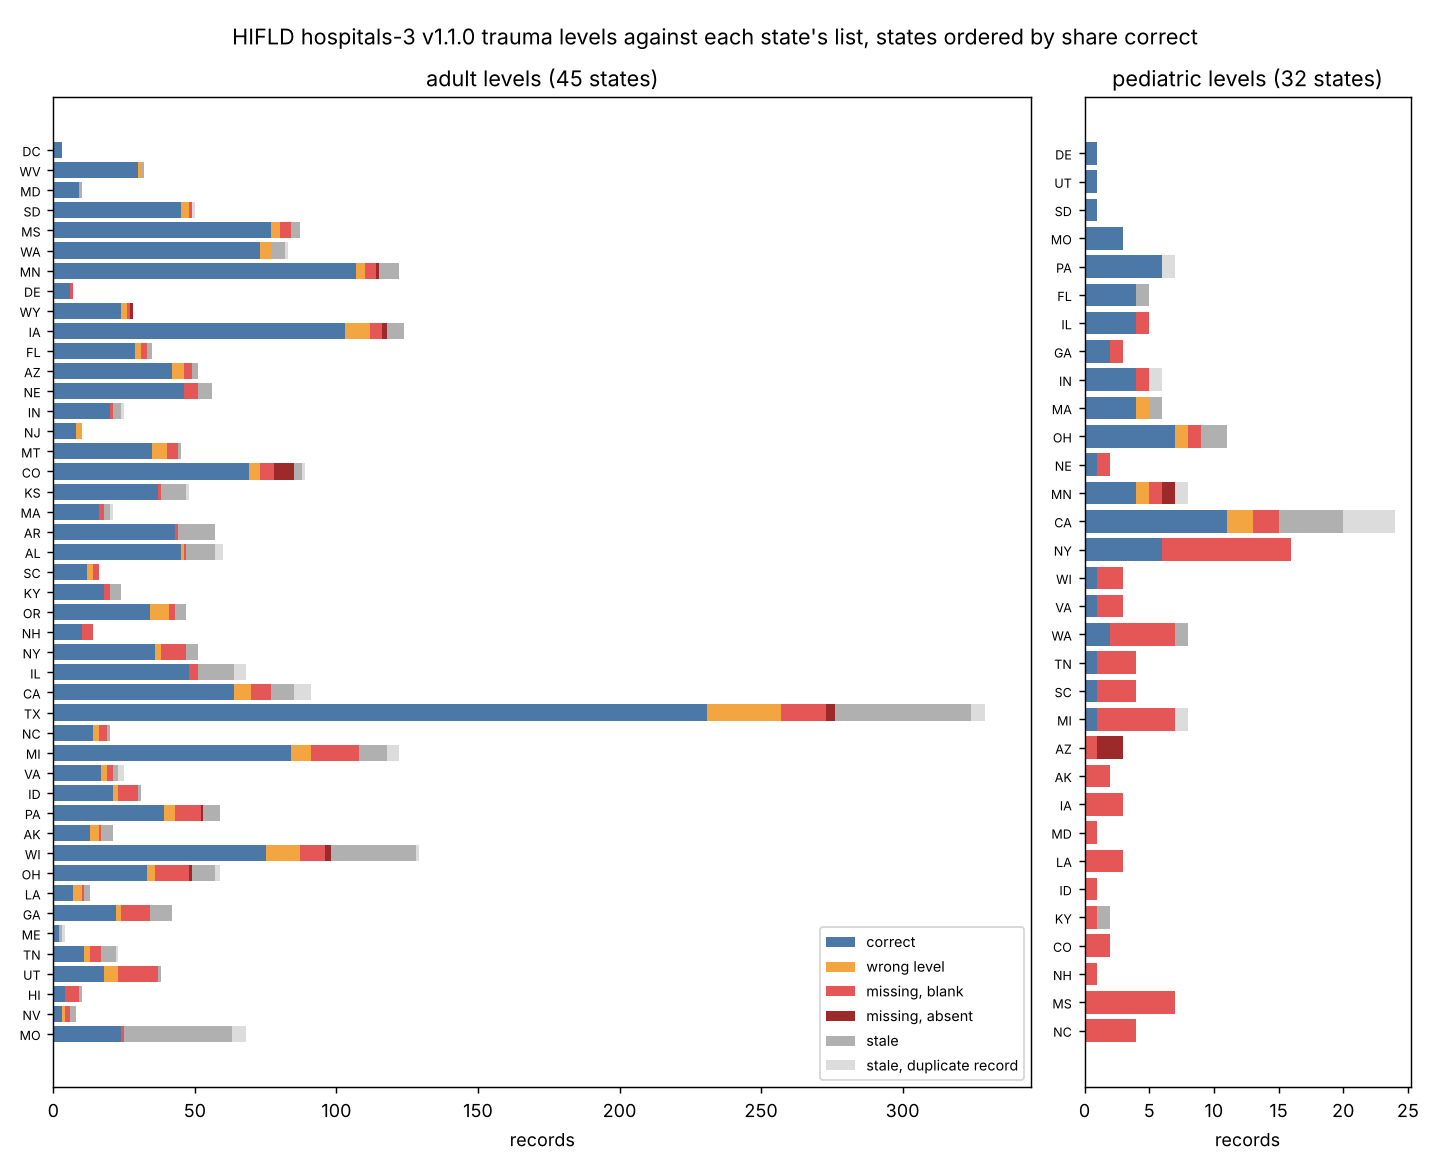
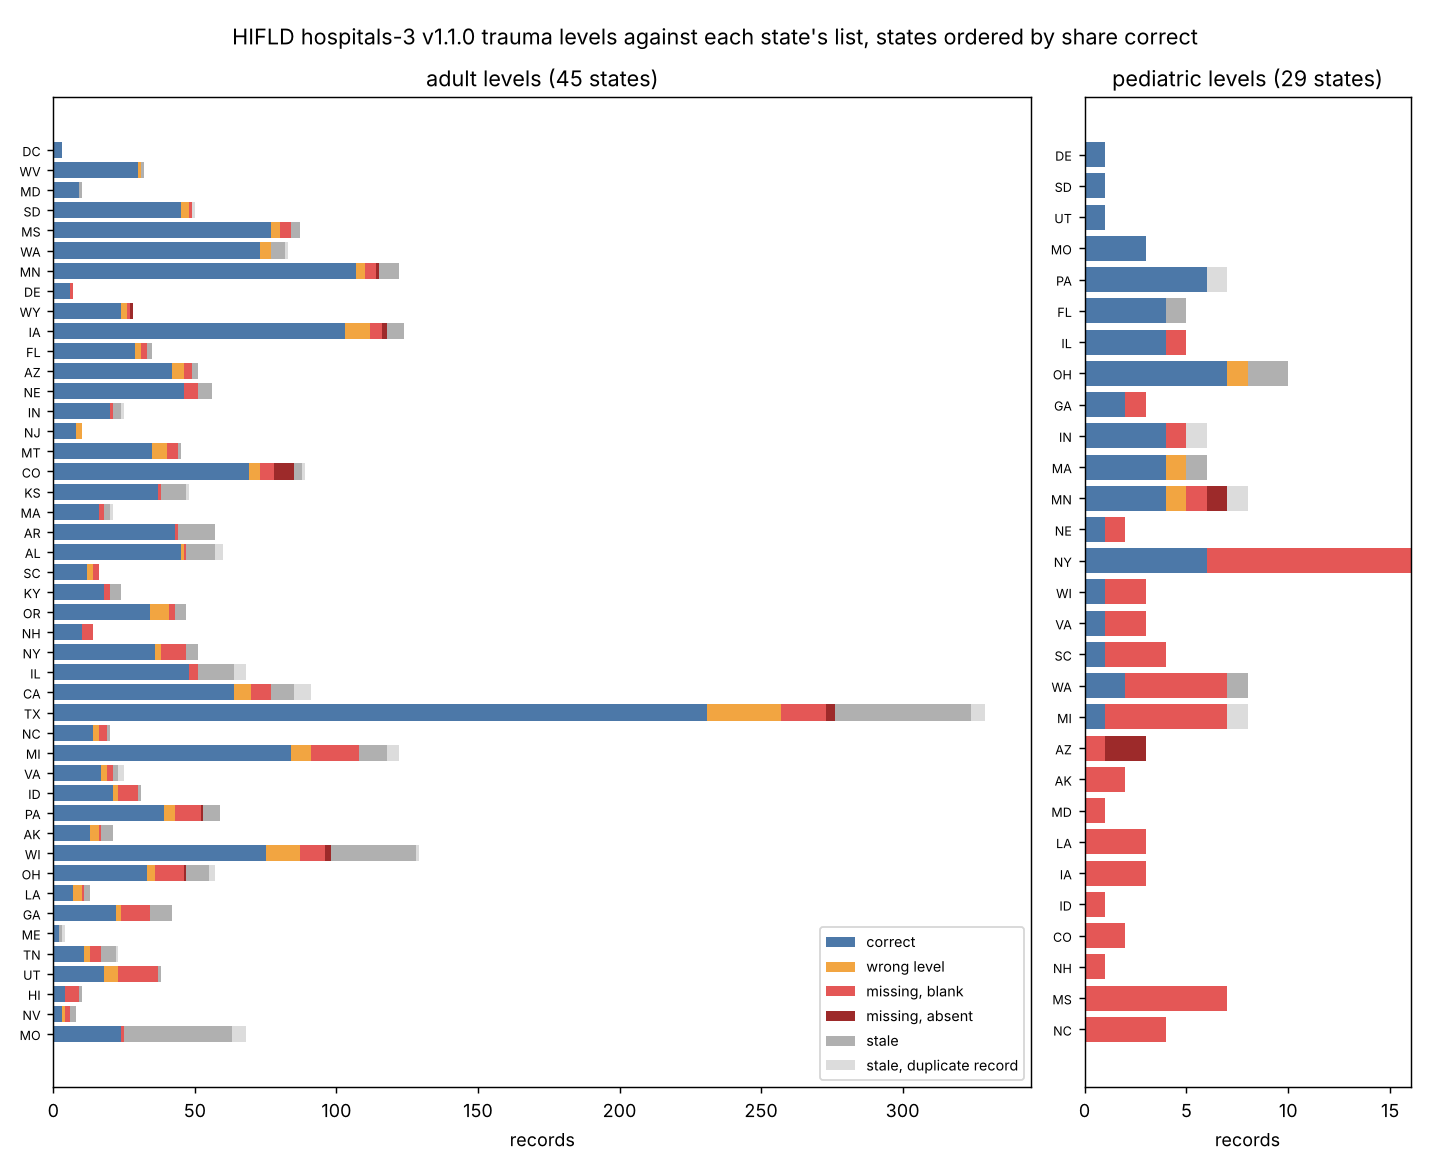
Spike: pediatric check fixes (CRPC, seeking status, incomplete CA/KY pediatric lists), final numbers
Claude-Session: https://claude.ai/code/session_01L5nw7CVMYunDZQP2ESgwpq

diff --git a/hifld-trauma-levels-audit/audit.py b/hifld-trauma-levels-audit/audit.py
@@ -51,7 +51,6 @@ with app.setup:
     # State tiers that aren't numbered, mapped to the nearest ACS level (see state_sources.csv notes).
     TIERS = {
         "RTC": "II", "RTH": "II", "ATH": "III", "CTH": "IV", "TRF": "V", "TRH": "V",  # Montana, Wyoming, South Dakota
-        "CRPC": "I",  # Tennessee's Comprehensive Regional Pediatric Center
         "PARC": "I",  # Maryland's Primary Adult Resource Center (Shock Trauma)
         # Mississippi's pediatric tiers: a Secondary center may be a Level III adult center and keeps children only
         # for orthopedic injuries (15 Miss. Code R. 3-1-7.2.1), so it maps to III, not II.
@@ -60,7 +59,12 @@ with app.setup:
     }  # fmt: skip
     # Tiers that mean a hospital takes part in the state system, not that it is a trauma center: Maine's Trauma
     # System Hospitals, and Mississippi's Primary Pediatric tier, which every designated hospital holds.
-    NOT_TRAUMA = {"TSH", "PRIMARY"}
+    # Tennessee's Comprehensive Regional Pediatric Center is a pediatric emergency-care tier, not a trauma level.
+    NOT_TRAUMA = {"TSH", "PRIMARY", "CRPC"}
+    # States whose list leaves out pediatric centers that other official documents designate (the pediatric check
+    # found Los Angeles and Riverside county pediatric centers missing from California's list, and UK Kentucky
+    # Children's Level I missing from Kentucky's map), so their pediatric levels count as unchecked.
+    PEDS_LIST_INCOMPLETE = {"CA", "KY"}
     RUN_STARTED = time.perf_counter()
 
     def rank(level: str) -> int:
@@ -176,7 +180,10 @@ def _():
 def _():
     sources = pd.read_csv(HERE / "state_sources.csv", dtype=str).fillna("")
     _extracted = pd.read_csv(HERE / "state_designations.csv", dtype=str).fillna("")
-    designations = _extracted[~_extracted["level"].isin(NOT_TRAUMA)].reset_index(drop=True)
+    # "Seeking provisional status" (Ohio) is an application, not a designation.
+    designations = _extracted[~_extracted["level"].isin(NOT_TRAUMA) & (_extracted["status"] != "seeking")].reset_index(
+        drop=True
+    )
     assert set(sources["state"]) == set(STATES), (
         f"state_sources.csv must cover 51 states: {set(STATES) ^ set(sources['state'])}"
     )
@@ -191,7 +198,13 @@ def _():
     state_status["checked_adult"] = (
         state_status["reusable"].isin(["yes", "unclear"]) & (state_status["rows"] > 0) & state_status["current"]
     )
-    state_status["checked_peds"] = state_status["checked_adult"] & (state_status["covers_peds"] == "yes")
+    _peds_rows = designations[designations["kind"] == "peds"].groupby("state").size()
+    state_status["checked_peds"] = (
+        state_status["checked_adult"]
+        & (state_status["covers_peds"] == "yes")
+        & (_peds_rows.reindex(state_status.index, fill_value=0) > 0)
+        & ~state_status.index.isin(PEDS_LIST_INCOMPLETE)
+    )
     _dated = sources.loc[sources["state"].isin(state_status.index[state_status["checked_adult"]]), "list_date"]
     _dated = _dated[_dated != ""]
     source_counts = {
@@ -489,11 +502,29 @@ def _():
 
 
 @app.cell
-def _(hifld, pairs, sources, state_status):
+def _(designations, hifld, pairs, sources, state_status):
     _wide = pairs.pivot_table(index="key", columns="kind", values="state_level", aggfunc="first")
     _wide = _wide.reindex(columns=list(KINDS)).fillna("")
     _names = pairs.drop_duplicates("key").set_index("key")[["state", "list_name"]]
-    _keys = set(hifld.loc[(hifld["adult_hifld"] != "") | (hifld["peds_hifld"] != ""), "source_ID"]) | set(_wide.index)
+    # In a state with a current list but no pediatric list, a children's hospital it designates at Level I/II is
+    # still added (nothing is removed there).
+    _state_of = hifld.set_index("source_ID")["STATE"]
+    _adds = designations[
+        (designations["kind"] == "peds")
+        & designations["level"].replace(TIERS).isin(["I", "II", "unspecified"])
+        & designations["state"].map(state_status["checked_adult"])
+        & ~designations["state"].map(state_status["checked_peds"])
+    ]
+    _adds = _adds[(_adds["source_ID"] == "") | (_adds["source_ID"].map(_state_of) == _adds["state"])]
+    _adds = _adds.assign(
+        key=np.where(_adds["source_ID"] != "", _adds["source_ID"], "list:" + _adds["state"] + ":" + _adds["list_name"]),
+        level=_adds["level"].replace(TIERS),
+    )
+    _adds = _adds.assign(_rank=_adds["level"].map(rank)).sort_values("_rank").drop_duplicates("key").set_index("key")
+    _names = pd.concat([_names, _adds[["state", "list_name"]]])
+    _names = _names[~_names.index.duplicated()]
+    _keys = set(hifld.loc[(hifld["adult_hifld"] != "") | (hifld["peds_hifld"] != ""), "source_ID"])
+    _keys |= set(_wide.index) | set(_adds.index)
     corrected = pd.DataFrame(index=sorted(_keys))
     corrected = corrected.join(
         hifld.set_index("source_ID")[["NAME", "CITY", "STATE", "TYPE", "STATUS", "TRAUMA", "adult_hifld", "peds_hifld"]]
@@ -505,6 +536,9 @@ def _(hifld, pairs, sources, state_status):
         _checked = corrected["STATE"].map(state_status[f"checked_{_kind}"]).fillna(False).astype(bool)
         _state_value = _wide[_kind].reindex(corrected.index).fillna("")
         corrected[f"{_kind}_corrected"] = np.where(_checked, _state_value, corrected[f"{_kind}_hifld"])
+    _added = _adds["level"].reindex(corrected.index).fillna("")
+    _fill = (corrected["peds_corrected"] == "") & (_added != "")
+    corrected.loc[_fill, "peds_corrected"] = _added[_fill]
 
     def trauma_text(adult: str, peds: str) -> str:
         parts = [
@@ -551,7 +585,7 @@ def _(corrected, designations, hifld, state_status):
         "of which on the state list at Level I/II": int(
             _peds_before["source_ID"].isin(set(_peds_checked["source_ID"])).sum()
         ),
-        "pediatric Level I/II after correction, nationally": int(
+        "pediatric Level I/II in the corrected field, nationally": int(
             corrected["peds_corrected"].isin(["I", "II", "unspecified"]).sum()
         ),
     }
@@ -644,7 +678,7 @@ def _(files):
 
 
 @app.cell
-def _(bg, corrected, designations, hifld, state_status):
+def _(bg, corrected, hifld, state_status):
     def unit_vectors(lat: np.ndarray, lon: np.ndarray) -> np.ndarray:
         lat_r, lon_r = np.radians(lat), np.radians(lon)
         return np.column_stack([np.cos(lat_r) * np.cos(lon_r), np.cos(lat_r) * np.sin(lon_r), np.sin(lat_r)])
@@ -662,21 +696,15 @@ def _(bg, corrected, designations, hifld, state_status):
     _added = pd.read_csv(HERE / "added_locations.csv", dtype={"key": str})
     _added = _added.set_index("key")[["LATITUDE", "LONGITUDE", "state"]].rename(columns={"state": "STATE"})
     _coords = pd.concat([_coords, _added])
-    _peds_list = designations[(designations["kind"] == "peds") & designations["level"].replace(TIERS).isin(["I", "II"])]
-    _peds_extra = {
-        k if k else f"list:{s}:{n}"
-        for k, s, n in zip(_peds_list["source_ID"], _peds_list["state"], _peds_list["list_name"], strict=True)
-    }
-
     center_sets = {}
     for _kind in KINDS:
         _before = hifld.loc[hifld[f"{_kind}_spike"], "source_ID"]
+        _top_after = corrected[f"{_kind}_corrected"].isin(_top)
+        # Where HIFLD's value stands unchecked, keep the spike's filter on type and status.
+        _unchanged = corrected[f"{_kind}_corrected"] == corrected[f"{_kind}_hifld"]
         _checked = corrected["STATE"].map(state_status[f"checked_{_kind}"]).fillna(False).astype(bool)
-        _from_list = corrected.index[_checked & corrected[f"{_kind}_corrected"].isin(_top)]
-        _unchecked = set(_before) & set(corrected.index[~_checked])
-        _after = set(_from_list) | _unchecked
-        if _kind == "peds":
-            _after |= {k for k in _peds_extra if k in corrected.index and not _checked.get(k, False)}
+        _dropped = ~_checked & _unchanged & ~corrected.index.isin(set(_before))
+        _after = set(corrected.index[_top_after & ~_dropped])
         _missing = sorted(_after - set(_coords.index))
         assert not _missing, f"no coordinates for {_missing}; add them to added_locations.csv"
         center_sets[_kind] = {"before": sorted(_before), "after": sorted(_after)}
@@ -785,10 +813,11 @@ def _():
       level on a licensing form and the state doesn't publish the results. New Mexico's only official list is an
       archived 2013 map and North Dakota's a 2020 map that shows levels by marker colour; both are too old. These
       six keep HIFLD's values.
-    - **Thirteen states don't designate pediatric centers separately** (New Jersey among them), so their
-      pediatric records stay unchecked. There, the corrected list keeps HIFLD's pediatric records and adds
-      children's hospitals the state designates at Level I or II. New Jersey's 1-of-5 gap from the trauma-access
-      spike can't be confirmed from a state list for this reason.
+    - **Sixteen checked states have no usable pediatric list.** Fourteen don't designate pediatric centers
+      separately (New Jersey and Tennessee among them). In California and Kentucky the pediatric check found
+      designated centers missing from the state's list. Their pediatric records stay unchecked: the corrected
+      list keeps HIFLD's records and adds children's hospitals the state designates at Level I or II. A state list
+      can't confirm New Jersey's 1-of-5 gap from the trauma-access spike for this reason.
     - **Some sources aren't the state's own document.** Pennsylvania's list is the press release of the
       nonprofit the state law names as its accreditor; Colorado's, Kansas's, Missouri's and Wisconsin's come from
       the state's own map services because their pages blocked us or only show a map; Mississippi's PDF was taken

diff --git a/hifld-trauma-levels-audit/README.md b/hifld-trauma-levels-audit/README.md
@@ -2,7 +2,7 @@
 
 The HIFLD hospital layer (`hospitals-3` v1.1.0 on [HIFLD Next](https://hifld.publicenvirodata.org)) is the one national public file with a trauma level for every hospital. This spike checks its `TRAUMA` field against each state's own designation list, counts the errors by state, writes a corrected field, and reruns the trauma-access spike's distance shares on it. One marimo notebook, `audit.py`. Issue [#204](https://github.com/fulton-ring/agent-content-demos/issues/204); follows `trauma-burn-center-access/` (#148).
 
-**Short answer.** Adult levels are mostly right and pediatric levels mostly aren't. Of 2,355 adult records we could check in 45 states, 72% match the state list. Of 158 pediatric records in 32 states, 42% do. Most pediatric errors are centers HIFLD leaves out: state lists name 54 pediatric Level I/II centers that HIFLD doesn't have at that level, including Children's Hospital Colorado, Phoenix Children's, all four of North Carolina's Level I children's hospitals and three of Louisiana's. With the corrected list, the share of children more than an hour's drive from a Level I/II pediatric center falls from **45.2% to 32.3%**. The adult share barely moves overall (**12.8% to 12.4%**), but it halves in Alaska (95% to 47%), where HIFLD types the Alaska Native Medical Center as a critical-access hospital and has Providence Alaska at Level III instead of II.
+**Short answer.** Adult levels are mostly right and pediatric levels mostly aren't. Of 2,353 adult records we could check in 45 states, 72.5% match the state list. Of 127 pediatric records in 29 states, 42.5% do. Most pediatric errors are centers HIFLD leaves out: state lists name 47 pediatric Level I/II centers that HIFLD doesn't have at that level, including Children's Hospital Colorado, Phoenix Children's, all four of North Carolina's Level I children's hospitals and three of Louisiana's. With the corrected list, the share of children more than an hour's drive from a Level I/II pediatric center falls from **45.2% to 33.3%**. The adult share barely moves overall (**12.8% to 12.4%**), but it halves in Alaska (95% to 47%), where HIFLD types the Alaska Native Medical Center as a critical-access hospital and has Providence Alaska at Level III instead of II.
 
 ## How to run
 
@@ -21,7 +21,7 @@ It needs [uv](https://docs.astral.sh/uv/). The first run downloads about 240 MB 
 | People and children | ACS 2018–2022 table B01001 by block group; Census 2020 population-weighted block-group centres; USDA ERS 2020 RUCA codes. All downloaded at run time |
 | Drive-time conversion | The trauma-access spike's fitted straight-line-to-minutes lines (`trauma-burn-center-access/outputs/summary.json`) |
 
-**How the state lists were read.** Nine Claude agents, one per region, each found a state's official list, recorded its terms, copied every row (all levels, adult and pediatric) and matched each row by hand to a HIFLD `source_ID`. No paid model API was used. A separate pass re-read a seeded sample of 60 rows against the sources: 59 were copied right (the one miss is an Idaho row marked provisional where the list says "pending application") and all 60 HIFLD matches were right (`extraction_check.csv`). A further pass checked every pediatric Level I/II disagreement between HIFLD and the lists (`peds_check.csv`).
+**How the state lists were read.** Nine Claude agents, one per region, each found a state's official list, recorded its terms, copied every row (all levels, adult and pediatric) and matched each row by hand to a HIFLD `source_ID`. No paid model API was used. A separate pass re-read a seeded sample of 60 rows against the sources: 59 were copied right (the one miss is an Idaho row marked provisional where the list says "pending application") and all 60 HIFLD matches were right (`extraction_check.csv`). A further pass checked all 72 pediatric Level I/II disagreements between HIFLD and the lists against other official documents and hospital announcements (`peds_check.csv`). Our reading of the lists was right on 62. The 10 misses changed three rules in the notebook. Tennessee's "Comprehensive Regional Pediatric Center" tier is an emergency-care tier, not a trauma level. Ohio's "seeking provisional status" is not a designation. California's and Kentucky's lists leave out county-designated and other pediatric centers, so their pediatric levels count as unchecked.
 
 **What counts as a list.** It must be the state's own official list, dated 2022 or later or still posted as current, with terms that don't forbid reuse. The American College of Surgeons' verified-center search can't be used: it has no download and its terms forbid reuse in other applications.
 
@@ -29,34 +29,34 @@ It needs [uv](https://docs.astral.sh/uv/). The first run downloads about 240 MB 
 
 Every number here comes from `outputs/summary.json` and the CSVs beside it, written by the run.
 
-**Sources.** 47 of 51 states (50 plus DC) publish an official list: 38 are reusable and 9 have unclear terms, such as an all-rights-reserved footer or a non-commercial clause. Two of those lists are too old to use (New Mexico 2013, North Dakota 2020), leaving **45 states checked for adult levels and 32 for pediatric levels**. Connecticut, Rhode Island and Vermont rely on ACS verification and publish no list, and Oklahoma doesn't publish one. The lists used are dated 2022-12-16 to 2026-11-05; 6 state no date.
+**Sources.** 47 of 51 states (50 plus DC) publish an official list: 38 are reusable and 9 have unclear terms, such as an all-rights-reserved footer or a non-commercial clause. Two of those lists are too old to use (New Mexico 2013, North Dakota 2020), leaving **45 states checked for adult levels and 29 for pediatric levels**. Connecticut, Rhode Island and Vermont rely on ACS verification and publish no list, and Oklahoma doesn't publish one. The lists used are dated 2022-12-16 to 2026-11-05; 6 state no date.
 
 **Records by bucket** (each HIFLD record with a level, or state-list row, in a checked state):
 
 | | correct | wrong level | missing, blank in HIFLD | missing, no HIFLD record | stale | stale, duplicate record | designated but mistyped |
 |---|---|---|---|---|---|---|---|
-| Adult | 1,707 | 134 | 182 | 18 | 274 | 40 | 25 |
-| Pediatric | 66 | 5 | 65 | 3 | 11 | 8 | 3 |
+| Adult | 1,707 | 134 | 180 | 18 | 274 | 40 | 25 |
+| Pediatric | 54 | 3 | 58 | 3 | 5 | 4 | 2 |
 
-*Stale* means HIFLD gives a level the state list doesn't. Missouri alone has 43, because HIFLD gives a level to many St. Louis and Kansas City hospitals that aren't on the state's list of 28. *Duplicate* means a second HIFLD record for a designated campus also carries the level. *Mistyped* means a designated hospital whose record is closed, long-term care, psychiatric or of unknown type, or critical access at Level I/II, any of which drops it from a filtered analysis. 13 of the 25 adult cases are Kansas trauma hospitals typed long-term care. Per-state counts are in `outputs/errors_by_state.csv` and `outputs/buckets_by_state.png`.
+*Stale* means HIFLD gives a level the state list doesn't. Missouri alone has 38 (plus 5 duplicates), because HIFLD gives a level to many St. Louis and Kansas City hospitals that aren't on the state's list of 28. *Duplicate* means a second HIFLD record for a designated campus also carries the level. *Mistyped* means a designated hospital whose record is closed, long-term care, psychiatric or of unknown type, or critical access at Level I/II, any of which drops it from a filtered analysis. 13 of the 25 adult cases are Kansas trauma hospitals typed long-term care. Per-state counts are in `outputs/errors_by_state.csv` and `outputs/buckets_by_state.png`.
 
 **Level I/II only**, the centers distance analyses use:
 
 | | in both | state list only | HIFLD only |
 |---|---|---|---|
-| Adult | 501 | 50 | 107 |
-| Pediatric | 67 | 54 | 22 |
+| Adult | 501 | 49 | 107 |
+| Pediatric | 53 | 47 | 12 |
 
-**Pediatric centers found.** The 32 states that designate pediatric centers list 128 at Level I/II, against 88 HIFLD records in those states; only 68 of those 88 are on the lists. Nationally, the corrected field has 139 pediatric Level I/II centers against HIFLD's 102. The other 19 states don't designate pediatric centers, so there the corrected list keeps HIFLD's records and adds children's hospitals the state designates at Level I/II.
+**Pediatric centers found.** The 29 states whose pediatric lists we could check name 107 Level I/II pediatric centers. HIFLD has 64 records in those states, and 55 of them are on the lists. Nationally, the corrected field has 147 pediatric Level I/II centers against HIFLD's 102. In the other 22 states it keeps HIFLD's pediatric records and adds the children's hospitals a current state list designates at Level I/II.
 
 **Distance to care** (estimated drive time, the trauma-access spike's method, rebuilt exactly):
 
 | | centers before → after | beyond 60 min, before | after |
 |---|---|---|---|
-| Adult Level I/II | 612 → 571 | 12.8% | 12.4% |
-| Pediatric Level I/II (children under 18) | 102 → 141 | 45.2% | 32.3% |
+| Adult Level I/II | 612 → 570 | 12.8% | 12.4% |
+| Pediatric Level I/II (children under 18) | 102 → 147 | 45.2% | 33.3% |
 
-That is 9.5 million fewer children counted as more than an hour from a pediatric center. The largest moves are in Colorado, North Carolina, Arizona and South Carolina, where children beyond an hour fall by 67–74 points. Adult shares rise where HIFLD gave a level the state doesn't (Iowa +8.5 points, Louisiana +4.2) and fall where it missed one (Alaska −48, Montana −13). Per-state figures are in `outputs/distance_shift_by_state.csv`.
+That is 8.8 million fewer children counted as more than an hour from a pediatric center. The largest moves are in Colorado, North Carolina, Arizona and South Carolina, where children beyond an hour fall by 67–74 points. Adult shares rise where HIFLD gave a level the state doesn't (Iowa +8.5 points, Louisiana +4.2) and fall where it missed one (Alaska −48, Montana −13). Per-state figures are in `outputs/distance_shift_by_state.csv`.
 
 ![HIFLD records by bucket and state](outputs/buckets_by_state.png)
 
@@ -66,7 +66,7 @@ That is 9.5 million fewer children counted as more than an hour from a pediatric
 - `state_sources.csv`, `state_designations.csv`: the 51 sources and the 2,410 rows copied from them.
 - `extraction_check.csv`, `peds_check.csv`: the independent checks.
 - `added_locations.csv`: coordinates for the one Level I/II center with no HIFLD record (Intermountain Lutheran's new campus).
-- `outputs/corrected_trauma.csv`: the corrected field, one row per record with a level on either side, with `TRAUMA_corrected`, `change` and the source URL. `outputs/diff_vs_v1.1.0.csv` has only the 719 changed rows. `outputs/pairs.csv` has every comparison.
+- `outputs/corrected_trauma.csv`: the corrected field, one row per record with a level on either side, with `TRAUMA_corrected`, `change` and the source URL. `outputs/diff_vs_v1.1.0.csv` has only the 708 changed rows. `outputs/pairs.csv` has every comparison.
 
 ## What we looked at first
 
@@ -74,6 +74,6 @@ HIFLD's own `SOURCE` field, which points to the files it was built from. ACS's v
 
 ## What it doesn't show
 
-- Six states (CT, RI, VT, OK, NM, ND) and the pediatric records of 13 more keep HIFLD's values unchecked.
-- A state list is the state's view: it can lag, and some lists are undated or a few years old. Tier mappings (Montana, Wyoming, South Dakota, Mississippi, Maryland, Tennessee, Florida) are listed in the notebook's setup cell.
+- Six states (CT, RI, VT, OK, NM, ND) and the pediatric records of 16 more keep HIFLD's values unchecked. The pediatric check suggests other states' lists may also miss locally designated pediatric centers.
+- A state list is the state's view: it can lag, and some lists are undated or a few years old. Tier mappings (Montana, Wyoming, South Dakota, Mississippi, Maryland, Florida) are listed in the notebook's setup cell.
 - The distance figures carry the trauma-access spike's caveats: ground travel only, no traffic, a conversion calibrated on Maine and New Jersey, ±5 points nationally.
